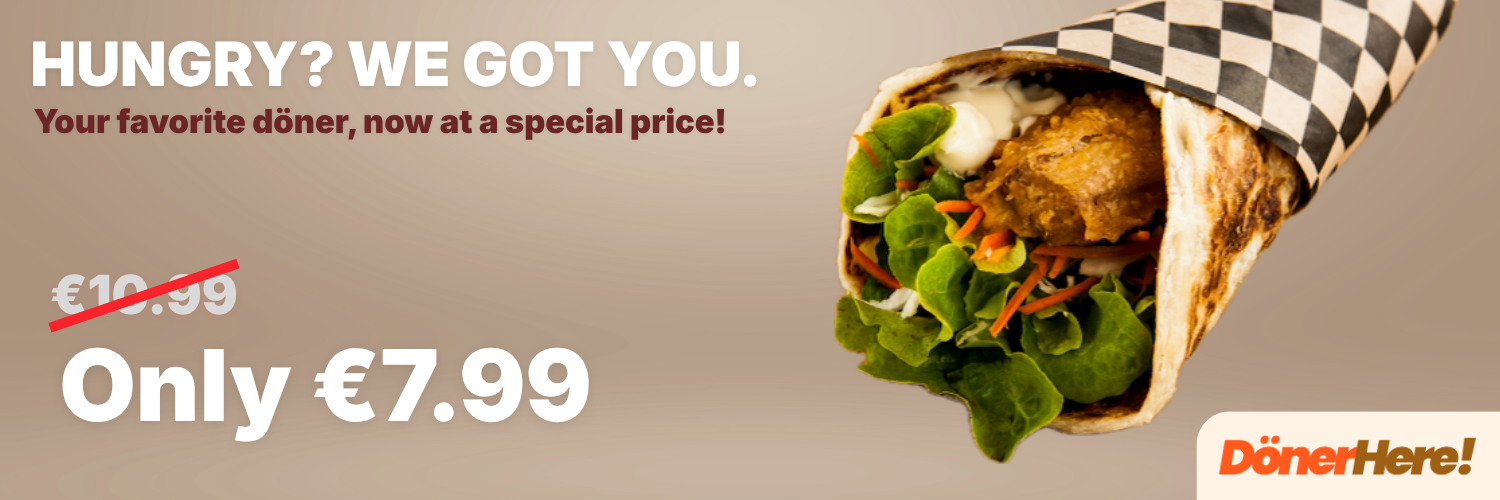
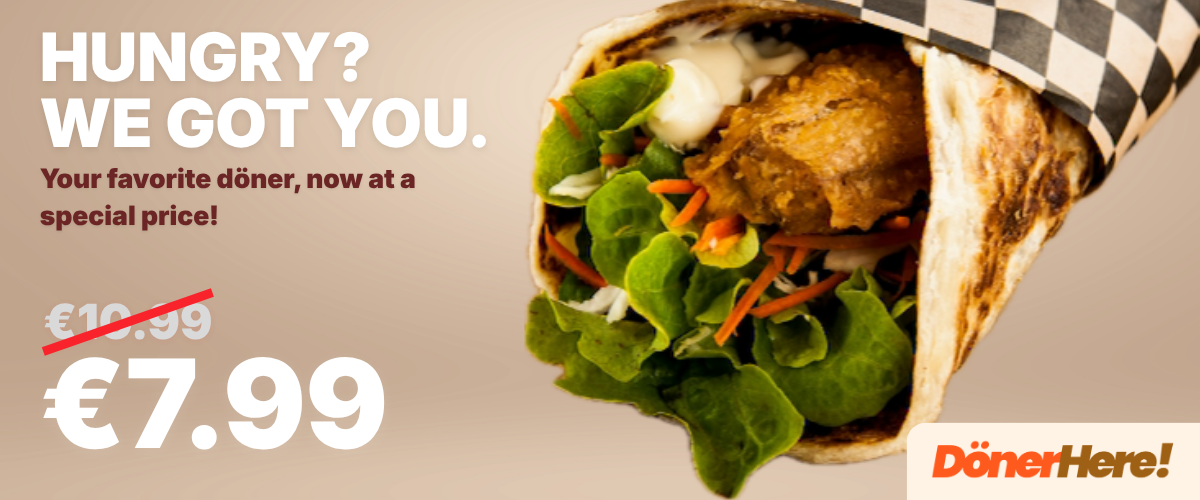
Promotion Carousel

diff --git a/src/components/Footer.tsx b/src/components/Footer.tsx
@@ -22,11 +22,11 @@ function Footer() {
             </div>
           </div>
         </div>
-        <div className="flex flex-1 w-full h-full  justify-center items-center flex-col">
-          <div className="flex md:gap-[40px] gap-[25px] justify-center">
+        <div className="flex flex-1 w-full h-full  justify-center items-center flex-col pt-[15px]">
+          <div className="flex flex-row md:gap-[40px] gap-[50px] justify-center">
             <div>
               <p className="opacity-50">Explore</p>
-              <div className="flex flex-col mt-[5px]">
+              <div className="flex flex-col">
                 <a href="/" className="hover:text-[#9e6014]">
                   Home
                 </a>
@@ -43,7 +43,7 @@ function Footer() {
             </div>
             <div>
               <p className="opacity-50">Order</p>
-              <div className="flex flex-col mt-[5px]">
+              <div className="flex flex-col">
                 <a href="/menu" className="hover:text-[#9e6014]">
                   Menu
                 </a>
@@ -51,7 +51,7 @@ function Footer() {
             </div>
             <div>
               <p className="opacity-50">Help</p>
-              <div className="flex flex-col mt-[5px]">
+              <div className="flex flex-col">
                 <a href="/contact-us" className="hover:text-[#9e6014]">
                   Contact Us
                 </a>

diff --git a/src/components/PromotionCarousel.tsx b/src/components/PromotionCarousel.tsx
@@ -9,9 +9,9 @@ import {
 
 function PromotionCarousel() {
   return (
-    <div className="flex w-full justify-center align-middle items-center group">
+    <div className="flex w-full justify-center align-middle items-center group overflow-hidden">
       <Carousel
-        className="max-h-[500px] w-[100%] max-w-[1500px]"
+        className="max-h-[500px] w-[100%] max-w-[1200px]"
         plugins={[
           Autoplay({
             delay: 5000,
